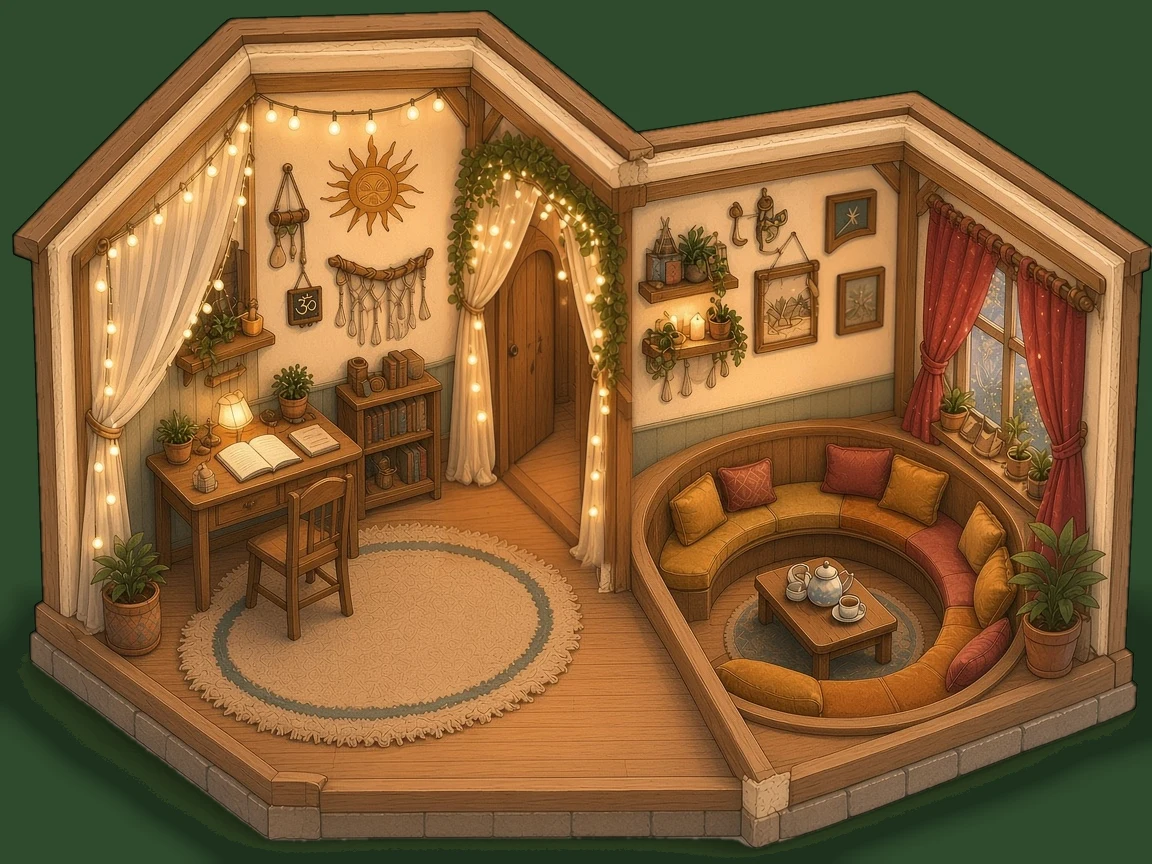
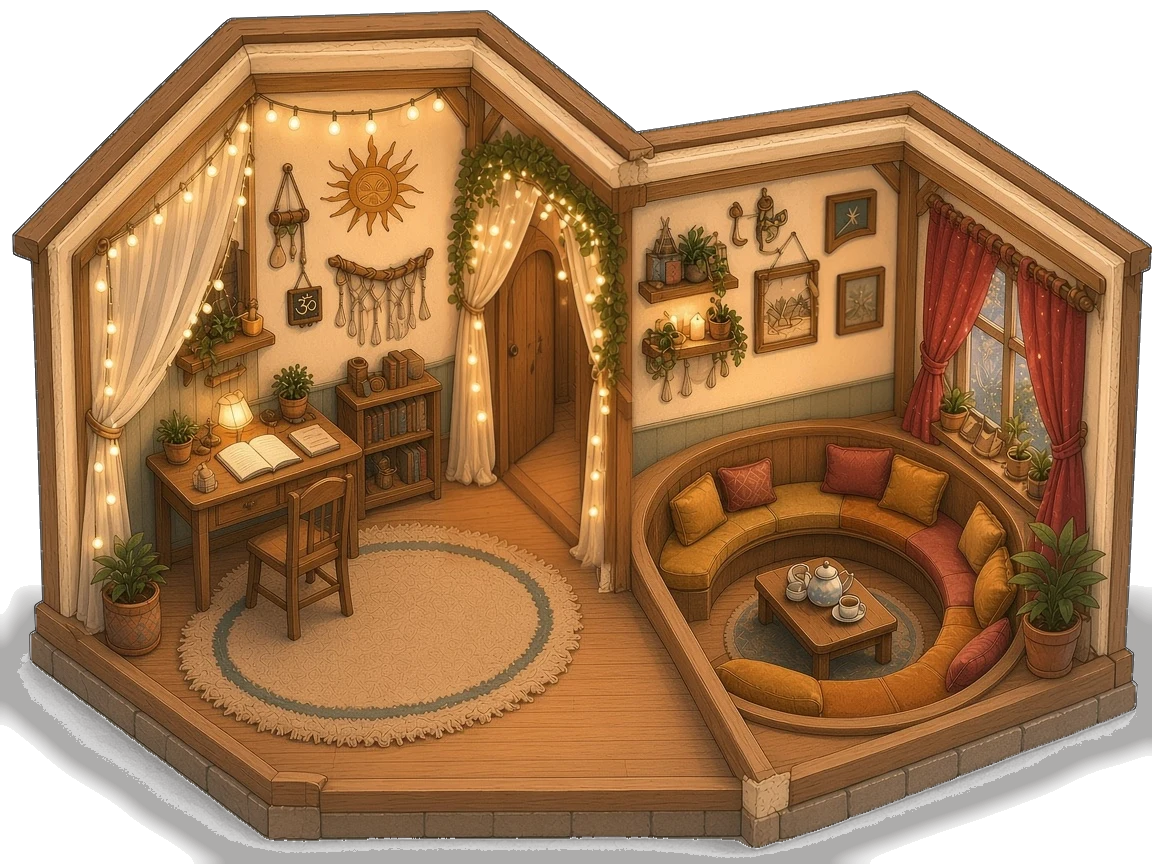
Add Gorbo's transparent rooms and a violin line.
Gorbo's house and bedroom use the v4 paintings, Olithia and Gorbo show the page green through their edges, and the music loop is stereo with a synthesized violin. Service worker is bot-town-v16.

Changed region(s): [[0.0, 0.0, 1.0, 1.0]]

diff --git a/music.js b/music.js
@@ -1,6 +1,6 @@
 // Gentle generated ambient loops (Web Audio API) — no downloaded music.
 window.BotMusic = (() => {
-  let ctx, master, timer, nextTime = 0, step = 0, current = null, rain;
+  let ctx, master, vbus, noise, timer, nextTime = 0, step = 0, current = null, rain;
   const hz = m => 440 * Math.pow(2, (m - 69) / 12);
   const PROG = [[53, 57, 60, 64], [52, 55, 59, 62], [50, 53, 57, 60], [48, 52, 55, 59]]; // Fmaj7 Em7 Dm7 Cmaj7
   const TRACKS = {
@@ -13,19 +13,45 @@ window.BotMusic = (() => {
     ctx = new (window.AudioContext || window.webkitAudioContext)();
     const lp = ctx.createBiquadFilter(); lp.type = 'lowpass'; lp.frequency.value = 2400;
     master = ctx.createGain(); master.gain.value = 0.22; master.connect(lp); lp.connect(ctx.destination);
+    // Force a true stereo bus so mono sources are always centred (never left-only on WebKit/iOS).
+    [master, lp].forEach(n => { n.channelCount = 2; n.channelCountMode = 'explicit'; n.channelInterpretation = 'speakers'; });
+    noise = noiseBuf();
+    // Soft violin bus: gentle generated stereo hall reverb.
+    vbus = ctx.createGain(); vbus.gain.value = 1; vbus.connect(master);
+    const rv = ctx.createConvolver(), len = ctx.sampleRate * 2.6, ir = ctx.createBuffer(2, len, ctx.sampleRate);
+    for (let c = 0; c < 2; c++) { const d = ir.getChannelData(c); for (let i = 0; i < len; i++) d[i] = (Math.random() * 2 - 1) * Math.pow(1 - i / len, 3); }
+    rv.buffer = ir; const wet = ctx.createGain(); wet.gain.value = .35; vbus.connect(rv); rv.connect(wet); wet.connect(master);
   }
+  // Bowed string: two detuned saws, warm low-pass, delayed vibrato, slow attack.
+  function violin(f, t, dur, vol = .035) {
+    const g = ctx.createGain(), lp = ctx.createBiquadFilter(), body = ctx.createBiquadFilter();
+    lp.type = 'lowpass'; lp.frequency.value = 1700; lp.Q.value = .5;
+    body.type = 'peaking'; body.frequency.value = 3000; body.gain.value = -6; body.Q.value = 1;
+    const lfo = ctx.createOscillator(), lg = ctx.createGain(); lfo.frequency.value = 5.2;
+    lg.gain.setValueAtTime(0, t); lg.gain.linearRampToValueAtTime(f * .004, t + .6);
+    lfo.connect(lg);
+    const end = t + dur + 1.2;
+    [-4, 4].forEach(dt => { const o = ctx.createOscillator(); o.type = 'sawtooth'; o.frequency.value = f; o.detune.value = dt; lg.connect(o.frequency); o.connect(lp); o.start(t); o.stop(end); });
+    g.gain.setValueAtTime(0, t); g.gain.linearRampToValueAtTime(vol, t + .45); g.gain.setValueAtTime(vol, t + dur); g.gain.linearRampToValueAtTime(0, end);
+    lp.connect(body); body.connect(g); g.connect(vbus); lfo.start(t); lfo.stop(end);
+  }
+  // 8-bar melody (C major, fits Fmaj7-Em7-Dm7-Cmaj7); [eighth, midi, length in beats]
+  const VIOLIN = [[[0, 72, 3], [6, 69, 1]], [[0, 71, 3], [6, 67, 1]], [[0, 69, 2], [4, 65, 2]], [[0, 67, 3.5]],
+                  [[0, 69, 2], [4, 72, 2]], [[0, 74, 3], [6, 71, 1]], [[0, 72, 2], [4, 69, 2]], [[0, 64, 3.5]]];
   function tone(f, t, dur, { type = 'sine', vol = .1, atk = .02, rel = .6 } = {}) {
     const o = ctx.createOscillator(), g = ctx.createGain(); o.type = type; o.frequency.value = f;
     g.gain.setValueAtTime(0, t); g.gain.linearRampToValueAtTime(vol, t + atk); g.gain.exponentialRampToValueAtTime(.0001, t + atk + dur + rel);
     o.connect(g); g.connect(master); o.start(t); o.stop(t + atk + dur + rel + .05);
   }
-  function noiseBuf() { const b = ctx.createBuffer(1, ctx.sampleRate * 2, ctx.sampleRate), d = b.getChannelData(0); let last = 0; for (let i = 0; i < d.length; i++) { last = (last + .02 * (Math.random() * 2 - 1)) / 1.02; d[i] = last * 3.5; } return b; }
-  function hat(t) { const s = ctx.createBufferSource(); s.buffer = noiseBuf(); const f = ctx.createBiquadFilter(); f.type = 'highpass'; f.frequency.value = 6000; const g = ctx.createGain(); g.gain.setValueAtTime(.05, t); g.gain.exponentialRampToValueAtTime(.0001, t + .05); s.connect(f); f.connect(g); g.connect(master); s.start(t); s.stop(t + .1); }
+  function noiseBuf() { const b = ctx.createBuffer(2, ctx.sampleRate * 2, ctx.sampleRate); for (let c = 0; c < 2; c++) { const d = b.getChannelData(c); let last = 0; for (let i = 0; i < d.length; i++) { last = (last + .02 * (Math.random() * 2 - 1)) / 1.02; d[i] = last * 3.5; } } return b; }
+  function hat(t) { const s = ctx.createBufferSource(); s.buffer = noise; const f = ctx.createBiquadFilter(); f.type = 'highpass'; f.frequency.value = 6000; const g = ctx.createGain(); g.gain.setValueAtTime(.05, t); g.gain.exponentialRampToValueAtTime(.0001, t + .05); s.connect(f); f.connect(g); g.connect(master); s.start(t); s.stop(t + .1); }
   function kick(t) { const o = ctx.createOscillator(), g = ctx.createGain(); o.frequency.setValueAtTime(110, t); o.frequency.exponentialRampToValueAtTime(40, t + .15); g.gain.setValueAtTime(.25, t); g.gain.exponentialRampToValueAtTime(.0001, t + .3); o.connect(g); g.connect(master); o.start(t); o.stop(t + .35); }
   function schedule() {
     const tr = TRACKS[current], beat = 60 / tr.bpm;
     while (nextTime < ctx.currentTime + .4) {
       const t = nextTime, bar = Math.floor(step / 8) % 4, chord = PROG[bar], e = step % 8; // 8 eighth-notes per bar
+      const vb = VIOLIN[Math.floor(step / 8) % 8], vv = { hearth: .035, rain: .026, musicbox: .02 }[current];
+      vb.forEach(([at, m, len]) => { if (at === e) violin(hz(m), t, beat * len, vv); });
       if (current === 'hearth') {
         if (e === 0) chord.forEach((m, i) => { tone(hz(m), t, beat * 3, { type: i % 2 ? 'triangle' : 'sine', vol: .07, atk: 1, rel: 2 }); });
         if (e === 0) tone(hz(chord[0] - 12), t, beat * 3, { vol: .09, atk: .6, rel: 1.5 });
@@ -44,7 +70,7 @@ window.BotMusic = (() => {
       nextTime += beat / 2; step++;
     }
   }
-  function startRain() { const s = ctx.createBufferSource(); s.buffer = noiseBuf(); s.loop = true; const f = ctx.createBiquadFilter(); f.type = 'bandpass'; f.frequency.value = 1200; f.Q.value = .4; const g = ctx.createGain(); g.gain.value = .12; s.connect(f); f.connect(g); g.connect(master); s.start(); rain = s; }
+  function startRain() { const s = ctx.createBufferSource(); s.buffer = noise; s.loop = true; const f = ctx.createBiquadFilter(); f.type = 'bandpass'; f.frequency.value = 1200; f.Q.value = .4; const g = ctx.createGain(); g.gain.value = .12; s.connect(f); f.connect(g); g.connect(master); s.start(); rain = s; }
   function play(id) {
     stop(); if (!id || !TRACKS[id]) return;
     init(); ctx.resume(); current = id; step = 0; nextTime = ctx.currentTime + .1;

diff --git a/config.js b/config.js
@@ -13,7 +13,7 @@ window.BOT_TOWN = {
       hotspot: { left: 9.7, top: 1.3, width: 45.8, height: 15.3 },
       room: {
         aspect: 864 / 1152,
-        backdrop: "radial-gradient(circle at 50% 45%, #fff1d6, #f3cfa0 55%, #c98f5e)",
+        backdrop: "transparent",
         poses: {
           idle: "assets/olithia-house-v4-idle.webp",
           working: "assets/olithia-house-v4-working.webp",
@@ -30,14 +30,14 @@ window.BOT_TOWN = {
       hotspot: { left: 52.8, top: 14.4, width: 47.2, height: 19.2 },
       room: {
         aspect: 864 / 1152, zoom: 1.18, // wide enough that the right-hand bedroom door starts on screen
-        backdrop: "radial-gradient(circle at 50% 45%, #f1ead0, #c9c79a 55%, #7d8a5a)",
+        backdrop: "transparent",
         poses: {
-          idle: "assets/gorbo-house-v3-idle.webp",
-          working: "assets/gorbo-house-v3-working.webp",
-          sitting: "assets/gorbo-house-v3-sitting.webp"
+          idle: "assets/gorbo-house-v4-idle.webp",
+          working: "assets/gorbo-house-v4-working.webp",
+          sitting: "assets/gorbo-house-v4-sitting.webp"
         },
-        // bedroom door on the right wall. Art: x=922,y=250,w=68,h=180 on 1152×864, padded for taps.
-        bedroom: { to: "gorbo-bed", label: "Gorbo's bedroom", door: { left: 76.39, top: 26.62, width: 13.02, height: 25.46 } }
+        // bedroom door on the right wall. Art: x=921,y=240,w=66,h=190
+        bedroom: { to: "gorbo-bed", label: "Gorbo's bedroom", door: { left: 76.39, top: 26.62, width: 13.02, height: 24.3 } }
       },
       tasks: ["Squash the sneaky login bug", "Tighten loose bolts in the app", "Read crash logs with the magnifier", "Polish buttons till they shine"],
       dialog: ["Oi! Mind the wires — they bite. Only a little.", "Found three bugs today. Dot ate one. Don't tell.", "App's running smooth as river stones!", "Dot's napping in her tiny bed. Shhh. 🐞", "Need something fixed? Gorbo's on it!"]
@@ -107,12 +107,12 @@ window.BOT_TOWN = {
     "olithia-bed": {
       name: "Olithia", role: "Bedroom", house: "Lotus Cottage",
       gallery: true, returnTo: "olithia",
-      room: { image: "assets/olithia-bedroom-v2.webp", aspect: 720 / 1280, backdrop: "radial-gradient(circle at 50% 45%, #fff1d6, #f3cfa0 55%, #c98f5e)" }
+      room: { image: "assets/olithia-bedroom-v2.webp", aspect: 720 / 1280, backdrop: "transparent" }
     },
     "gorbo-bed": {
       name: "Gorbo", role: "Bedroom", house: "Mossy Workshop",
       gallery: true, returnTo: "gorbo",
-      room: { image: "assets/gorbo-bedroom-v2.webp", aspect: 720 / 1280, backdrop: "radial-gradient(circle at 50% 45%, #f1ead0, #c9c79a 55%, #7d8a5a)" }
+      room: { image: "assets/gorbo-bedroom-v4.webp", aspect: 720 / 1280, backdrop: "transparent" }
     },
     "loria-bed": {
       name: "Loria", role: "Bedroom", house: "Loria's Bookshop",

diff --git a/sw.js b/sw.js
@@ -1,12 +1,13 @@
-const CACHE = 'bot-town-v15';
+const CACHE = 'bot-town-v16';
 const ASSETS = ['./', 'index.html', 'style.css', 'config.js', 'music.js', 'app.js', 'manifest.json',
   'assets/map-v2.webp', 'assets/starfall-hill-scene.webp',
   'assets/olithia-house-v4.webp', 'assets/olithia-house-v4-exterior.webp',
   'assets/olithia-house-v4-idle.webp', 'assets/olithia-house-v4-working.webp', 'assets/olithia-house-v4-sitting.webp',
-  'assets/gorbo-house-v3-idle.webp', 'assets/gorbo-house-v3-working.webp', 'assets/gorbo-house-v3-sitting.webp',
+  'assets/gorbo-house-v4.webp',
+  'assets/gorbo-house-v4-idle.webp', 'assets/gorbo-house-v4-working.webp', 'assets/gorbo-house-v4-sitting.webp',
   'assets/loria-house-v3-idle.webp', 'assets/loria-house-v3-working.webp', 'assets/loria-house-v3-sitting.webp',
   'assets/scout-house-v3-idle.webp', 'assets/scout-house-v3-working.webp', 'assets/scout-house-v3-sitting.webp',
-  'assets/olithia-bedroom-v2.webp', 'assets/gorbo-bedroom-v2.webp', 'assets/loria-bedroom.webp', 'assets/scout-bedroom.webp',
+  'assets/olithia-bedroom-v2.webp', 'assets/gorbo-bedroom-v4.webp', 'assets/loria-bedroom.webp', 'assets/scout-bedroom.webp',
   'assets/room-scout.webp', 'assets/olithia.png', 'assets/scout.png',
   'assets/icon-192.png', 'assets/icon-512.png', 'assets/apple-touch-icon.png'];
 self.addEventListener('install', e => { e.waitUntil(caches.open(CACHE).then(c => c.addAll(ASSETS))); self.skipWaiting(); });

diff --git a/README.md b/README.md
@@ -14,7 +14,7 @@ A cozy phone web game (installable PWA). Plain HTML/CSS/JS — no build step.
 - Characters: Olithia (Lotus Cottage), Gorbo (Mossy Workshop), Loria (Bookshop) and Scout (his cottage, painted on the map). Each house interior is a painting with Idle / Working / Sitting buttons. A glowing door in each house opens that character's bedroom. Scout's burrow is still under Loria's shop: the round hobbit door in her middle room, or the "Down to Scout's burrow" button. Starfall Hill is painted at the bottom of the map and opens a night scene with no pose buttons.
 - The map is a tall picture (`map-v2.webp`) that fills the phone width and scrolls vertically. House name labels are painted signs on the map.
 - **music.js**: generated ambient tracks.
-- After changing files, bump `CACHE` in `sw.js` (currently `bot-town-v15`) so installed phones fetch the update.
+- After changing files, bump `CACHE` in `sw.js` (currently `bot-town-v16`) so installed phones fetch the update.
 - Rooms have a few pixels of tilt (or finger) parallax, drifting motes, lamp glow, and a breathing vignette. The map has slow clouds. `prefers-reduced-motion` turns the motion off.
 
 ## Testing tips
